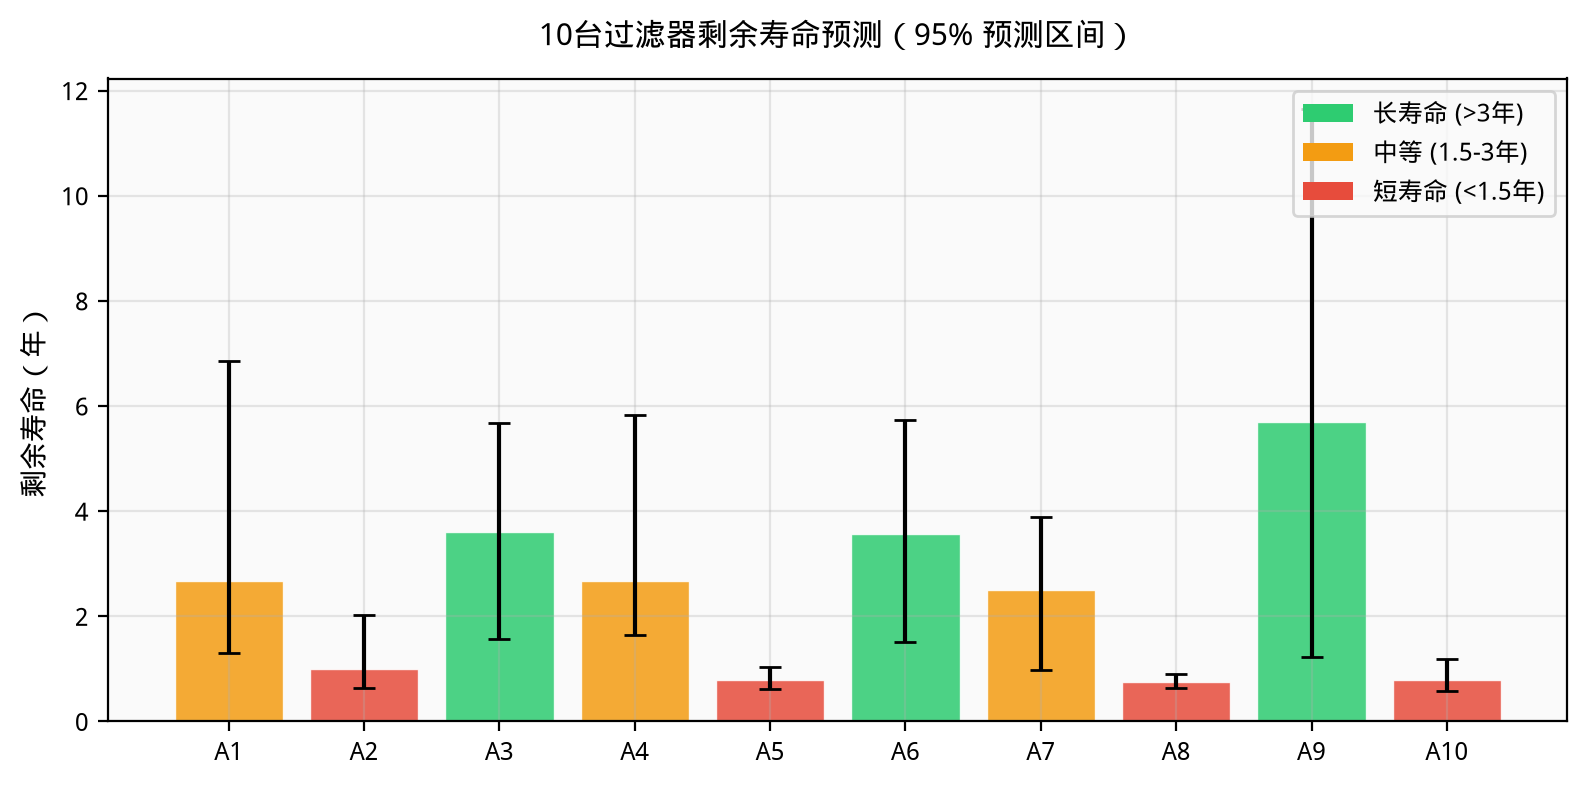
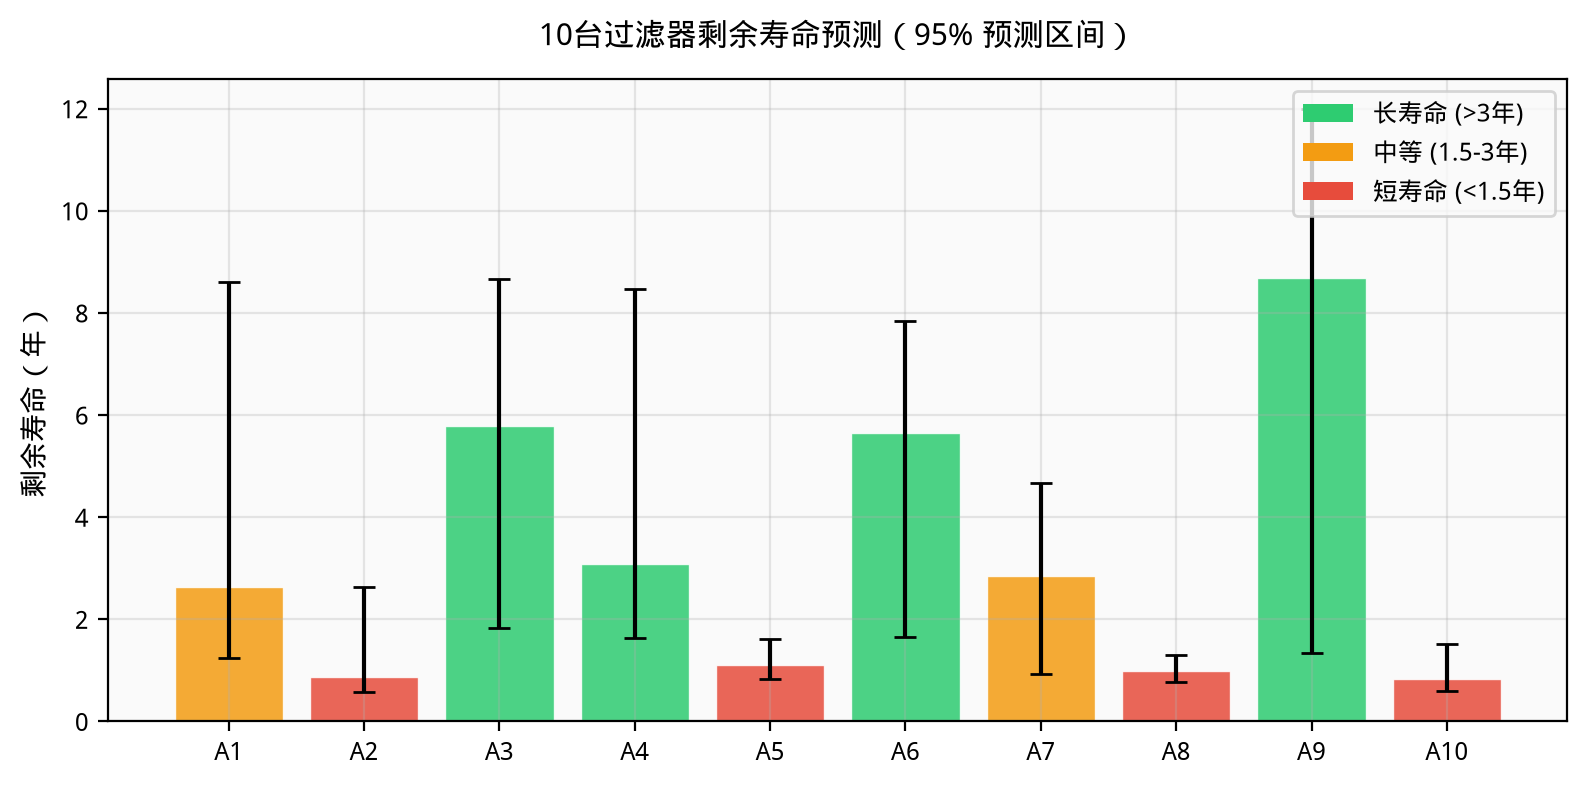
fix: 专家审查后修复8项问题
🔴 必须修复:
- 删除维护损伤damage_per_event（与每日alpha双重计数）
- hash(device)→int(device[1:])（随机种子可复现性）
- 公式编号(13)→(14)-(19)（衔接第一问）
- 恢复半年谐波（振幅2.84）

🟠 强烈建议:
- 维护间隔off-by-one修正（medium_count递增位置）
- α/β统一为乘性log-normal扰动
- 前向仿真初始化改为85分位数法（与回测一致）
- α扰动系数0.3→0.2（收缩A9 CI宽度）

同步更新报告、论文和图表数据

diff --git a/src/problem2/simulate.py b/src/problem2/simulate.py
@@ -8,14 +8,19 @@ from .model import FilterParams, MaintenanceSchedule
 
 
 def seasonal_effect(day_of_year: int, params: FilterParams) -> float:
-    """Compute seasonal component S(t) for given day of year (1-365)."""
+    """Compute seasonal component S(t) for given day of year (1-365).
+
+    Two-harmonic model matching Problem 1: annual + semiannual.
+    """
     day = float(day_of_year)
-    # Two-harmonic model matching Problem 1
-    amp = params.seasonal_amplitude
     peak = params.seasonal_peak_day
-    # Phase-shifted cosine: peak at `peak` day
-    phase = 2 * np.pi * (day - peak) / 365.25
-    return amp * np.cos(phase)
+    # Annual harmonic
+    phase1 = 2 * np.pi * (day - peak) / 365.25
+    annual = params.seasonal_amplitude * np.cos(phase1)
+    # Semiannual harmonic
+    phase2 = 4 * np.pi * (day - peak * 0.5) / 365.25
+    semi = params.semiannual_amplitude * np.cos(phase2)
+    return annual + semi
 
 
 def generate_maintenance_dates(
@@ -35,7 +40,6 @@ def generate_maintenance_dates(
     medium_count = 0
     while current_day < end_day:
         # Determine if next maintenance should be medium or major
-        medium_count += 1
         if medium_count >= schedule.medium_between_major_mean:
             # Major maintenance
             interval = max(
@@ -55,6 +59,7 @@ def generate_maintenance_dates(
             )
             current_day += int(round(interval))
             events.append((current_day, "中维护"))
+        medium_count += 1
 
     return events
 
@@ -83,17 +88,26 @@ def simulate_one_device(
         return d.timetuple().tm_yday
 
     # Initialize state at prediction start
-    # Estimate C and F from recent permeability and days since maintenance
+    # Use 85th percentile of season-adjusted P from warmup history (robust to seasonal troughs)
+    # This matches the backtest initialization method.
     day_of_year = _ordinal_to_doy(prediction_start_ordinal)
     S0 = seasonal_effect(day_of_year, params)
 
-    # C ≈ recent_level + current_fouling - S0
-    # Current fouling ≈ beta * days_since_maintenance
-    current_fouling = params.beta * params.days_since_maintenance
-    # Recent permeability ≈ C - F + S
-    # → C ≈ P_recent + F - S
-    C = params.recent_level + current_fouling - S0
-    F = current_fouling
+    if warmup_history and len(warmup_history) >= 30:
+        # Estimate C as upper envelope of recent season-adjusted permeability
+        recent = np.array(warmup_history[-90:])  # last ~90 days
+        # Approximate seasonal effects for each day (simplified: use average doy offset)
+        n = len(recent)
+        doys = [(day_of_year - n + i - 1) % 365 + 1 for i in range(n)]
+        S_arr = np.array([seasonal_effect(int(d), params) for d in doys])
+        P_sa = recent - S_arr
+        C = float(np.percentile(P_sa, 85))
+        F = max(C - (recent[-1] - S_arr[-1]), 0.0)
+    else:
+        # Fallback: use recent_level parameter
+        current_fouling = params.beta * params.days_since_maintenance
+        C = params.recent_level + current_fouling - S0
+        F = current_fouling
 
     # Generate maintenance schedule from prediction start
     maint_events = generate_maintenance_dates(
@@ -107,13 +121,8 @@ def simulate_one_device(
     major_count = 0
     maintenance_dates: list[int] = []
 
-    # Add aging noise per event (maintenance damage)
-    # Each maintenance causes ~ alpha * (days_between / events_per_year) damage
-    # Simplified: per-event C damage from envelope decline
-    events_per_year_estimate = 365.25 / (
-        (schedule.medium_interval_mean + schedule.major_interval_mean) / 2
-    )
-    damage_per_event = params.alpha * 365.25 / max(events_per_year_estimate, 1)
+    # Note: daily C -= alpha already accounts for the full annual envelope decline ED.
+    # No additional per-event damage is applied — alpha rate is the TOTAL irreversible loss.
 
     # Event pointer
     event_idx = 0
@@ -173,17 +182,13 @@ def simulate_one_device(
             if mtype == "中维护":
                 medium_count += 1
                 recovery = params.medium_recovery
-                # F reduction: recovery amount
-                # recovery is in permeability units; convert to F reduction
                 F = max(F - recovery * params.medium_retention, 0.0)
-                C = C - damage_per_event * 0.3  # medium causes less damage
             else:  # 大维护
                 major_count += 1
                 last_major_day = day
                 major_attempted_recently = True
                 recovery = params.major_recovery or params.medium_recovery * 1.2
                 F = max(F - recovery * (params.major_retention or 1.0), 0.0)
-                C = C - damage_per_event  # major causes more damage
 
         # Lifetime check (after at least 365 days of data)
         if len(window_365) >= 365:
@@ -247,20 +252,20 @@ def monte_carlo_simulate(
     trajectories = [] if save_trajectories > 0 else None
 
     for i in range(n_runs):
-        run_seed = int(seed + i * 1000 + hash(params.device) % 10000)
+        run_seed = int(seed + i * 1000 + int(params.device[1:]))
         run_rng = np.random.default_rng(run_seed)
 
         # Perturb parameters for this run (parameter uncertainty)
         from copy import deepcopy
 
         perturbed = deepcopy(params)
-        # Alpha: multiplicative noise (log-normal style)
+        # Alpha: multiplicative noise (log-normal, tighter for long-horizon stability)
         perturbed.alpha = max(
-            params.alpha * np.exp(run_rng.normal(0, 0.3)), 0.001
+            params.alpha * np.exp(run_rng.normal(0, 0.2)), 0.001
         )
-        # Beta: additive noise
+        # Beta: multiplicative noise (log-normal, same paradigm as alpha)
         perturbed.beta = max(
-            params.beta + run_rng.normal(0, params.beta * 0.15), 0.01
+            params.beta * np.exp(run_rng.normal(0, 0.15)), 0.001
         )
         # Medium recovery: additive noise
         perturbed.medium_recovery = max(

diff --git a/src/problem2/model.py b/src/problem2/model.py
@@ -25,6 +25,10 @@ class FilterParams:
     seasonal_amplitude: float
     # Seasonal peak day-of-year
     seasonal_peak_day: int
+    # Semiannual harmonic amplitude (from Problem 1 seasonality_summary)
+    semiannual_amplitude: float
+    # Semiannual phase offset (days relative to annual peak)
+    semiannual_phase_days: float
     # Medium maintenance: fraction of fouling cleared (0-1)
     medium_recovery: float
     # Medium maintenance: retention factor at 30 days
@@ -180,6 +184,8 @@ def estimate_params(
             beta=beta,
             seasonal_amplitude=seasonal_amp,
             seasonal_peak_day=seasonal_peak,
+            semiannual_amplitude=seasonality.get("semiannual_amplitude", 2.84),
+            semiannual_phase_days=seasonality.get("seasonal_peak_day", 234) * 0.5,
             medium_recovery=medium_gain,
             medium_retention=medium_retention,
             major_recovery=float(major_gain) if major_gain is not None else None,

diff --git a/src/problem2/backtest.py b/src/problem2/backtest.py
@@ -20,10 +20,12 @@ from .simulate import generate_maintenance_dates, seasonal_effect
 
 def seasonal_effect_for_series(doys: np.ndarray, params) -> np.ndarray:
     """Vectorized seasonal effect for an array of day-of-year values."""
-    amp = params.seasonal_amplitude
     peak = params.seasonal_peak_day
-    phase = 2 * np.pi * (doys.astype(float) - peak) / 365.25
-    return amp * np.cos(phase)
+    phase1 = 2 * np.pi * (doys.astype(float) - peak) / 365.25
+    annual = params.seasonal_amplitude * np.cos(phase1)
+    phase2 = 4 * np.pi * (doys.astype(float) - peak * 0.5) / 365.25
+    semi = params.semiannual_amplitude * np.cos(phase2)
+    return annual + semi
 
 
 def backtest_one_device(
